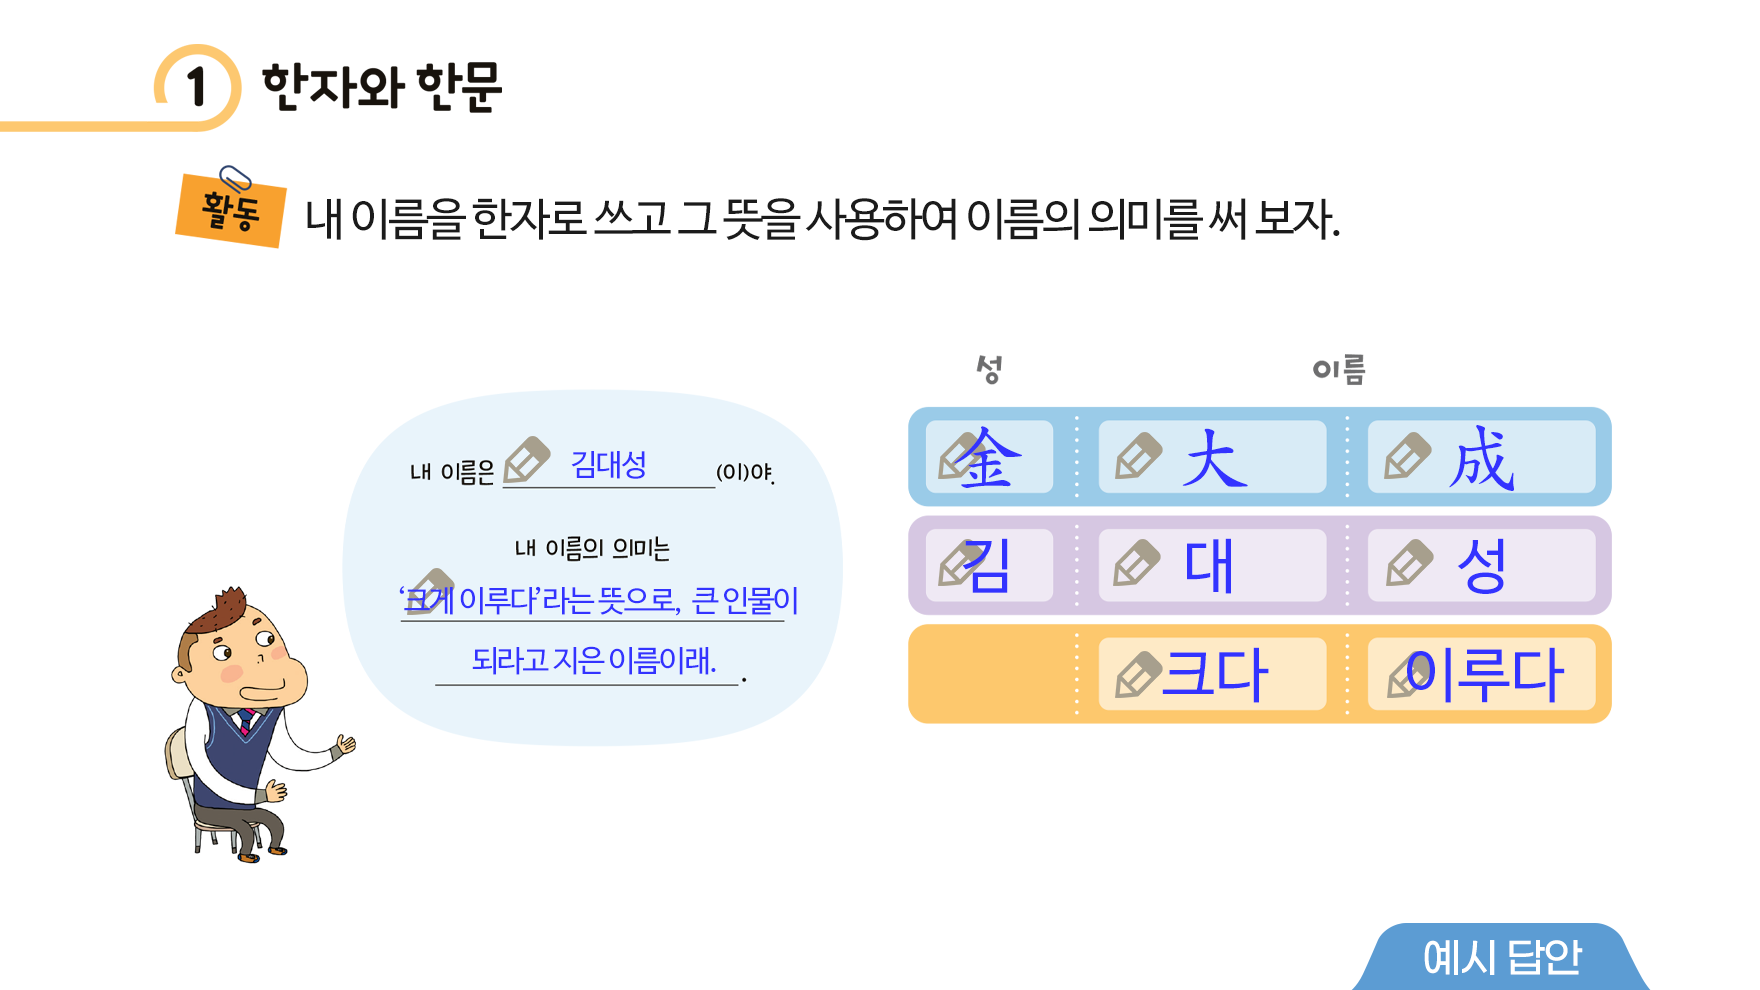
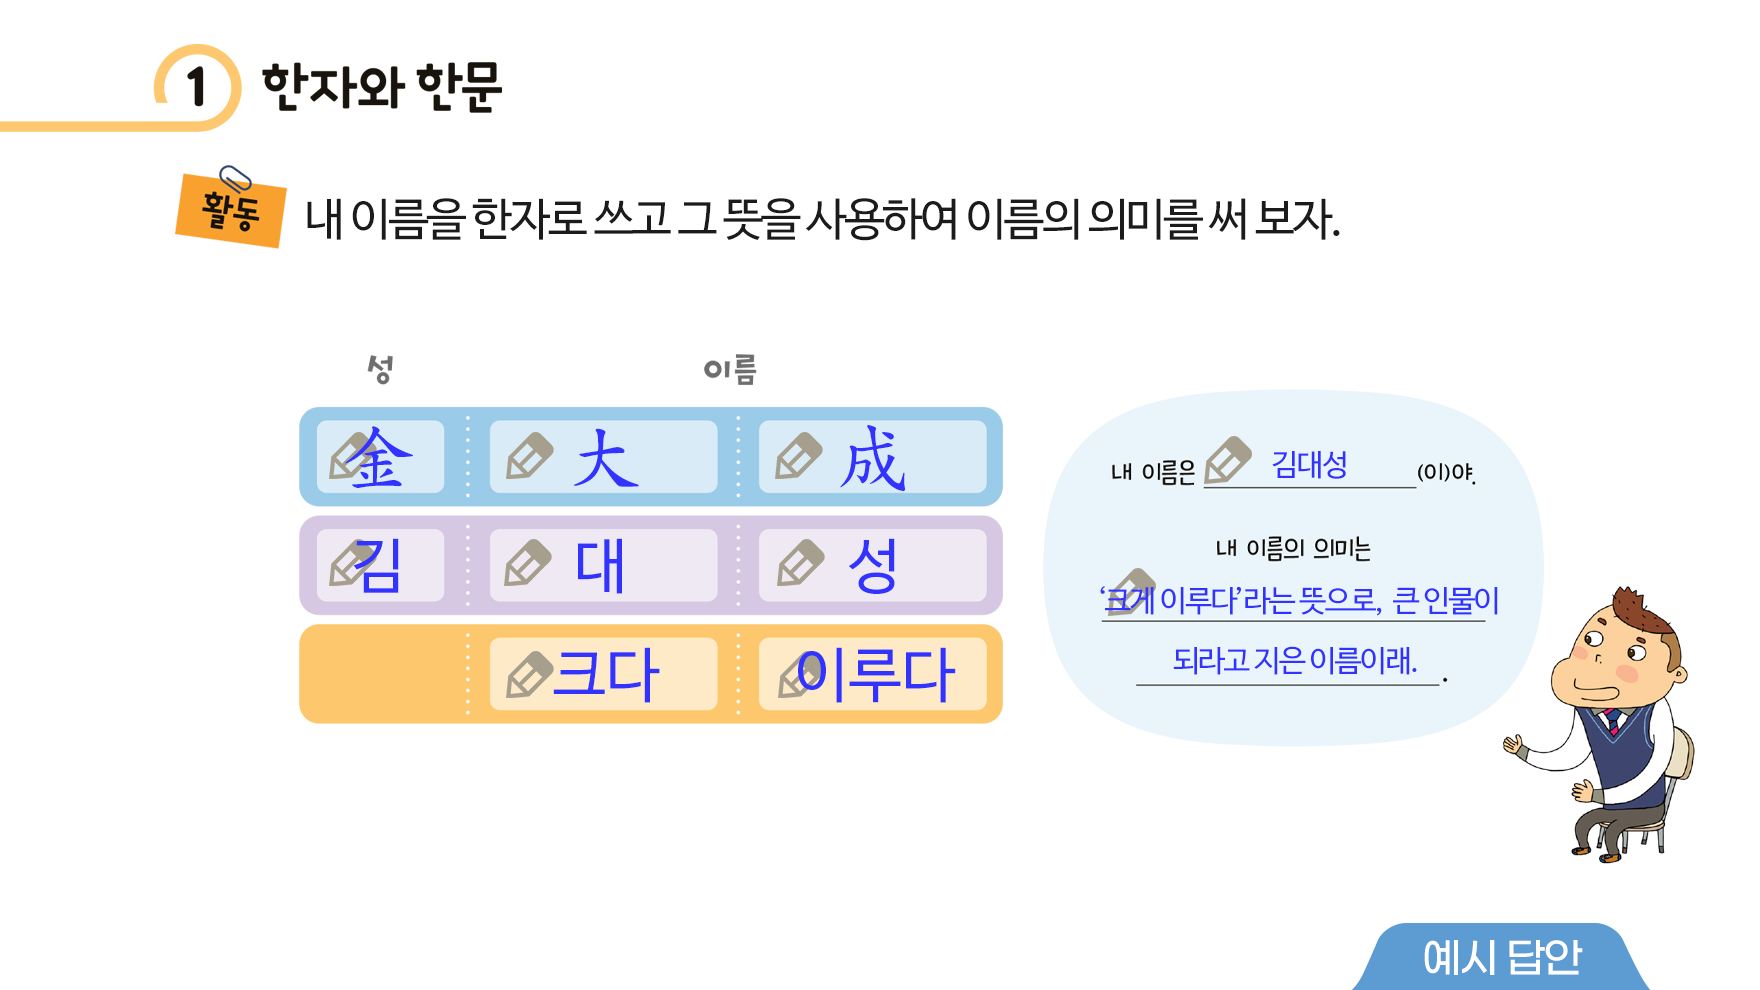
Review Updates (I)

Changed region(s): [[0.0938, 0.3636, 0.9688, 0.8788]]

diff --git a/app/(lessons)/lesson1/(2 activities)/(5 1 한자와 한문)/02_017_D13/page.tsx b/app/(lessons)/lesson1/(2 activities)/(5 1 한자와 한문)/02_017_D13/page.tsx
@@ -3,8 +3,7 @@
 import { ExerciseHeader } from "@/app/components/exercise-header";
 import { HeaderContainer } from "@/app/components/headers/header-container";
 import HEADER from "./header.png";
-import IMAGE_BEFORE from "./image.png";
-import IMAGE_AFTER from "./image_after.png";
+import IMAGE from "./image.png";
 import { PageInfoContext } from "@/app/utils/page-info";
 import { useState } from "react";
 import { useContext } from "react";
@@ -25,88 +24,100 @@ export default function Page() {
       </HeaderContainer>
 
       <ExerciseHeader
-        text="내 이름을 한자로 쓰고 그 뜻을 사용하여 이름의 의미를 써보자." 
-        sound=""/>
+        text="내 이름을 한자로 쓰고 그 뜻을 사용하여 이름의 의미를 써보자."
+        sound="/sound/1/17-i2.mp3" 
+        className="mt-4"
+      />
 
       <div className="w-[1400px] h-full mx-auto flex justify-center items-center ">
 
         <img
-          src={showAnswer ? IMAGE_AFTER.src : IMAGE_BEFORE.src}
-          className="absolute translate-x-2 -translate-y-5" />
+          src={IMAGE.src}
+          className="absolute translate-x-[117px] -translate-y-[30px]" />
 
-        <div className="relative w-[850px] mb-[450px]">
+        <div className="relative w-[850px] mb-[467px]">
           <div className="relative top-2">
 
             <InputWithPen
+              answer="김대성"
               showAnswer={showAnswer}
               className="text-center w-[195px] text-[30px] tracking-tighter bg-transparent"
               penClassName="h-[48px] -left-1 -mt-2"
-              containerClassName="absolute resize-none left-[55px] top-5"
+              containerClassName="absolute resize-none left-[752px] top-5"
               isExample
             />
             <TextareaWithPen
+              answer="‘크게 이루다’라는 뜻으로, 큰 인물이 되라고 지은 이름이래"
               showAnswer={showAnswer}
-              containerClassName={`absolute resize-none w-[380px] -left-[50px] top-[155px] text-center text-[30px] leading-[65px] tracking-tighter break-keep bg-transparent }`}
-              penClassName="h-[48px] top-[155px] -left-[45px]"
+              containerClassName={`absolute resize-none w-[400px] left-[640px] top-[155px] text-center text-[30px] leading-[65px] tracking-tighter break-keep bg-transparent text-example}`}
+              penClassName="h-[48px] top-[155px] left-[650px]"
               rows={2}
             />
 
             <InputWithPen
+              answer="金"
               showAnswer={showAnswer}
               className="text-center w-[110px] text-[70px] font-haeseo tracking-tighter bg-transparent"
               penClassName="h-[48px] top-[47px] left-1/2 -translate-x-1/2"
-              containerClassName="absolute resize-none left-[478px] -top-1"
+              containerClassName="absolute resize-none -left-[135px] -top-1"
               isExample
             />
             <InputWithPen
+              answer="大"
               showAnswer={showAnswer}
               className="text-center w-[205px] text-[70px] font-haeseo tracking-tighter bg-transparent"
               penClassName="h-[48px] top-[47px] left-1/2 -translate-x-1/2"
-              containerClassName="absolute resize-none left-[652px] -top-1"
+              containerClassName="absolute resize-none left-[39px] -top-1"
               isExample
             />
             <InputWithPen
+              answer="成"
               showAnswer={showAnswer}
               className="text-center w-[205px] text-[70px] font-haeseo tracking-tighter bg-transparent"
               penClassName="h-[48px] top-[47px] left-1/2 -translate-x-1/2"
-              containerClassName="absolute resize-none left-[925px] -top-1"
+              containerClassName="absolute resize-none left-[312px] -top-1"
               isExample
             />
 
             <InputWithPen
+              answer="김"
               showAnswer={showAnswer}
               className="text-center w-[110px] text-[60px] tracking-tighter bg-transparent"
               penClassName="h-[48px] top-[40px] left-1/2 -translate-x-1/2"
-              containerClassName="absolute resize-none left-[478px] top-[113px]"
+              containerClassName="absolute resize-none -left-[135px] top-[113px]"
               isExample
             />
             <InputWithPen
+              answer="대"
               showAnswer={showAnswer}
               className="text-center w-[205px] text-[60px] tracking-tighter bg-transparent"
               penClassName="h-[48px] top-[40px] left-1/2 -translate-x-1/2"
-              containerClassName="absolute resize-none left-[652px] top-[113px]"
+              containerClassName="absolute resize-none left-[39px] top-[113px]"
               isExample
             />
             <InputWithPen
+              answer="성"
               showAnswer={showAnswer}
               className="text-center w-[205px] text-[60px] tracking-tighter bg-transparent"
               penClassName="h-[48px] top-[40px] left-1/2 -translate-x-1/2"
-              containerClassName="absolute resize-none left-[925px] top-[113px]"
+              containerClassName="absolute resize-none left-[312px] top-[113px]"
               isExample
             />
 
             <InputWithPen
+              answer="크다"
               showAnswer={showAnswer}
               className="text-center w-[205px] text-[60px] tracking-tighter bg-transparent"
               penClassName="h-[48px] top-[40px] left-1/2 -translate-x-1/2"
-              containerClassName="absolute resize-none left-[652px] top-[222px]"
+              containerClassName="absolute resize-none left-[39px] top-[222px]"
               isExample
             />
             <InputWithPen
+              answer="이루다"
               showAnswer={showAnswer}
               className="text-center w-[205px] text-[60px] tracking-tighter bg-transparent"
               penClassName="h-[48px] top-[40px] left-1/2 -translate-x-1/2"
-              containerClassName="absolute resize-none left-[925px] top-[222px]"
+              containerClassName="absolute resize-none left-[312px] top-[222px]"
               isExample
             />
 

diff --git a/app/(lessons)/lesson1/(1 activities)/(3 4 네 번째 발견)/01_015_D42/page.tsx b/app/(lessons)/lesson1/(1 activities)/(3 4 네 번째 발견)/01_015_D42/page.tsx
@@ -12,6 +12,7 @@ import IMAGE2 from "./image2.png";
 import IMAGE3 from "./image3.png";
 import IMAGE4 from "./image4.png";
 import IMAGE5 from "./image5.png";
+import IMAGE6 from "./image6.png";
 import { ExampleAnswerButton } from "@/app/components/buttons/example-answer-button";
 import BACKGROUND1 from "@/app/bgpng_temp/1/중등한문_한자,어디서봤어22.png";
 import BACKGROUND2 from "@/app/bgpng_temp/1/중등한문_한자,어디서봤어23.png";
@@ -30,7 +31,7 @@ export default function Page() {
         "여기는 일본이야.\n저기 표지판을 봐!\n출구 전용은 '나가는 길로만 씀.'이라는 뜻이야.",
       position: { x: 640, y: 30 },
       rows: 4,
-      sound: "/sound/1/15/1.mp3", // /sound/1/15/2.mp3 스크롤 기능처리 필요
+      sound: "/sound/1/15/1.mp3", // +/sound/1/15/2.mp3 스크롤 기능처리 필요
 
     },
     {
@@ -48,10 +49,10 @@ export default function Page() {
         "나는 지금 일본의\n어느 신호등 앞에 서 있어.\n‘보행자 전용’은 ‘걸어 다니는 사람만 다니는 길’이고,",
       position: { x: 820, y: 30 },
       rows: 4,
-      sound: "/sound/1/15/4.mp3", // /sound/1/15/5.mp3 스크롤 기능처리 필요
+      sound: "/sound/1/15/4.mp3", // +/sound/1/15/5.mp3 스크롤 기능처리 필요
     },
     {
-      image: IMAGE3.src,
+      image: IMAGE4.src,
       fontSize: 50,
       answer: "'자전거 전용'은 ‘자전거만 다니는 길’이야.",
       position: { x: 820, y: 40 },
@@ -59,22 +60,22 @@ export default function Page() {
       sound: "/sound/1/15/6.mp3",
     },
     {
-      image: IMAGE4.src,
+      image: IMAGE5.src,
       fontSize: 40,
       answer:
         "여기는 중국의 거리야.\n저기 보이는 한자는 '열구'라고 읽는데 '핫도그'라는 뜻이야.",
       position: { x: 820, y: 30 },
       rows: 4,
-      sound: "/sound/1/15/7.mp3", // /sound/1/15/8.mp3 스크롤 기능처리 필요
+      sound: "/sound/1/15/7.mp3", // +/sound/1/15/8.mp3 스크롤 기능처리 필요
     },
     {
-      image: IMAGE5.src,
+      image: IMAGE6.src,
       fontSize: 40,
       answer:
         "지금 여기 중국에는 방금 비가 내렸다가 그쳤어.\n그래서 '소심지활' 즉 '바닥이 미끄러우니 조심하세요'라는 뜻의 표지판이 보이네.",
       position: { x: 640, y: 30 },
       rows: 4,
-      sound: "/sound/1/15/9.mp3", // /sound/1/15/10.mp3 스크롤 기능처리 필요
+      sound: "/sound/1/15/9.mp3", // +/sound/1/15/10.mp3 스크롤 기능처리 필요
     },
   ];
 

diff --git a/app/(lessons)/lesson1/(2 outro)/(3 활동하기)/02_023_J1/page.tsx b/app/(lessons)/lesson1/(2 outro)/(3 활동하기)/02_023_J1/page.tsx
@@ -1,5 +1,6 @@
 "use client";
 
+import { SoundButton2 } from "@/app/components/buttons/sound-button2";
 import IMAGE1 from "./image1.png";
 import IMAGE2 from "./image2.png";
 import IMAGE3 from "./image3.png";
@@ -79,12 +80,39 @@ const Content1 = () => {
 };
 
 const Content2 = () => {
+  const [isReading, setIsReading] = useState(false);
+  const [soundId, setSoundId] = useState<number | null>(null);
+  const sound = new Howl({
+    src: "/sound/1/23-2.mp3",
+    onplay: () => setIsReading(true),
+    onend: () => setIsReading(false),
+  });
+
+  useEffect(() => {
+    return () => {
+      sound.stop();
+    };
+  }, []);
+
+
   return (
     <div className="h-full flex flex-col justify-center items-center -mt-[120px]">
       <div className="relative">
         <img src={IMAGE2.src} />
-        <button className="absolute top-[15px] left-[20px] w-[100px] h-[100px] z-10" onClick={() => SOUND("/sound/1/23-2.mp3").play()}></button>
       </div>
+
+      <SoundButton2
+        className="absolute top-[25px] left-[230px] animate__animated animate__bounceIn animate__delay-2s"
+        active={isReading}
+        onClick={() => {
+          if (soundId) {
+            console.log("stop");
+            sound.stop(soundId);
+          }
+          setTimeout(() => setSoundId(sound.play()), 100);
+        }}
+      />
+
     </div>
   );
 };

diff --git a/app/(lessons)/lesson1/(2 activities)/(5 3 한자의 부수)/02_018_D31/page.tsx b/app/(lessons)/lesson1/(2 activities)/(5 3 한자의 부수)/02_018_D31/page.tsx
@@ -61,9 +61,9 @@ export default function Page() {
       />
 
       <ContentContainer className="!justify-start !items-start">
-        <div className="relative -mt-1 ml-[55px] text-[50px] leading-[60px] tracking-tighter break-keep">
+        <div className="relative mt-1 ml-[55px] text-[50px] leading-[60px] tracking-tighter break-keep">
           <p>
-            부수(部首)는 자전에서 한자를 찾을 때 기준이 되는 글자의 한 부분으로
+            부수(<span className="font-haeseo text-[55px] leading-[30px] tracking-[-5px]">部首</span>)는 자전에서 한자를 찾을 때 기준이 되는 글자의 한 부분으로
             대개 한자의 의미와 관련이 깊다.
           </p>
           <img
@@ -89,6 +89,10 @@ export default function Page() {
         <div className="w-full flex justify-center mt-1 ml-6">
           <div className="relative">
             <img src={IMAGE.src} />
+            <div className="absolute top-5 left-[577px] font-haeseo text-[35px] text-[#1b1b1b]">
+              <span>水</span>
+              <span className="ml-9">日</span>
+            </div>
             <div className="absolute bottom-[55px] left-[40px] grid grid-cols-5 gap-[90px]">
               {Array.from(Array(5).keys()).map((_, index) =>
                 buttonActive.includes(index) ? (

diff --git a/app/components/exercise-header/index.tsx b/app/components/exercise-header/index.tsx
@@ -10,6 +10,7 @@ export const ExerciseHeader = ({
   showWritingButton = false,
   image = "/ui/exercise.png",
   smartLink = "",
+  className,
 }: {
   text: string | React.ReactNode;
   sound: string;
@@ -17,6 +18,7 @@ export const ExerciseHeader = ({
   showWritingButton?: boolean;
   image?: string;
   smartLink?: string;
+  className?: string;
 }) => {
   useEffect(() => {
     if (sound) {
@@ -31,15 +33,15 @@ export const ExerciseHeader = ({
   }, [sound]);
 
   return (
-    <header className="animate__animated animate__flipInX relative w-[1500px] ml-[175px] flex items-center gap-4 mt-5 mb-10">
-      <div className="flex items-start gap-3">
+    <header className={`animate__animated animate__flipInX relative w-[1500px] ml-[175px] flex items-center gap-4 mt-5 mb-10`}>
+      <div className={`flex items-start gap-3 ${className}`}>
         <img src={image} />
         <p className="text-[47px] tracking-tighter relative top-7">
           {text}
         </p>
       </div>
 
-      <div className="relative top-2 flex items-center gap-5">
+      <div className={`relative top-2 flex items-center gap-5 ${className}`}>
         {showWritingButton ? <WritingButton /> : null}
         {showSmartButton && smartLink ? <SmartButton link={smartLink} /> : null}
       </div>

diff --git a/app/(lessons)/lesson1/(1 activities)/(3 2 두 번째 발견)/01_013_D22/page.tsx b/app/(lessons)/lesson1/(1 activities)/(3 2 두 번째 발견)/01_013_D22/page.tsx
@@ -2,6 +2,7 @@
 
 import { StepContainer } from "@/app/components/step-container";
 import { Header } from "../assets/header";
+import { ExerciseHeader } from "@/app/components/exercise-header";
 import { useEffect, useState } from "react";
 import { ContentContainer } from "@/app/components/content-container";
 import IMAGE1 from "./image1.png";
@@ -63,10 +64,20 @@ export default function Page() {
     <>
       <Header />
 
-      <ContentContainer className="flex flex-col items-center -mt-[150px]">
+      <ExerciseHeader
+        text={
+          <>
+            <p className="text-[40px] tracking-[-1px]">밑줄 친 부분의 뜻을 추측하여 쓰고, 사전에서 실제 뜻을 찾아 써 보자.</p>
+          </>
+        }
+        sound="/sound/1/13-i2.mp3"
+        className="-mt-14 -mb-20"
+      />
+
+      <ContentContainer className="flex flex-col items-center -mt-[200px]">
         <img
           src={data[step - 1]?.image}
-          className="h-[480px] ml-[10px] mb-[170px]"
+          className="h-[434px] ml-[25px] mb-[110px]"
         />
 
         <div className="absolute left-[115px] top-[680px]">

diff --git a/app/(lessons)/lesson1/(2 activities)/(5 4 모르는 한자는 어떻게 찾을까)/02_019_D42/page.tsx b/app/(lessons)/lesson1/(2 activities)/(5 4 모르는 한자는 어떻게 찾을까)/02_019_D42/page.tsx
@@ -24,12 +24,7 @@ export default function Page() {
       <QRButton 
         src={QR.src}
         link="http://ybmqr.com/acj003"
-        className="absolute right-[1196px] top-[156px] z-10" />
-
-      {/* <AdditionalDataButton
-        className="absolute top-[150px] right-[150px]"
-        onClick={() => {}}
-      /> */}
+        className="absolute right-[230px] top-[156px] z-10" />
 
       <ContentContainer className="!justify-start !items-start pt-10">
         <div className="absolute w-full top-[205px] left-[150px]">
